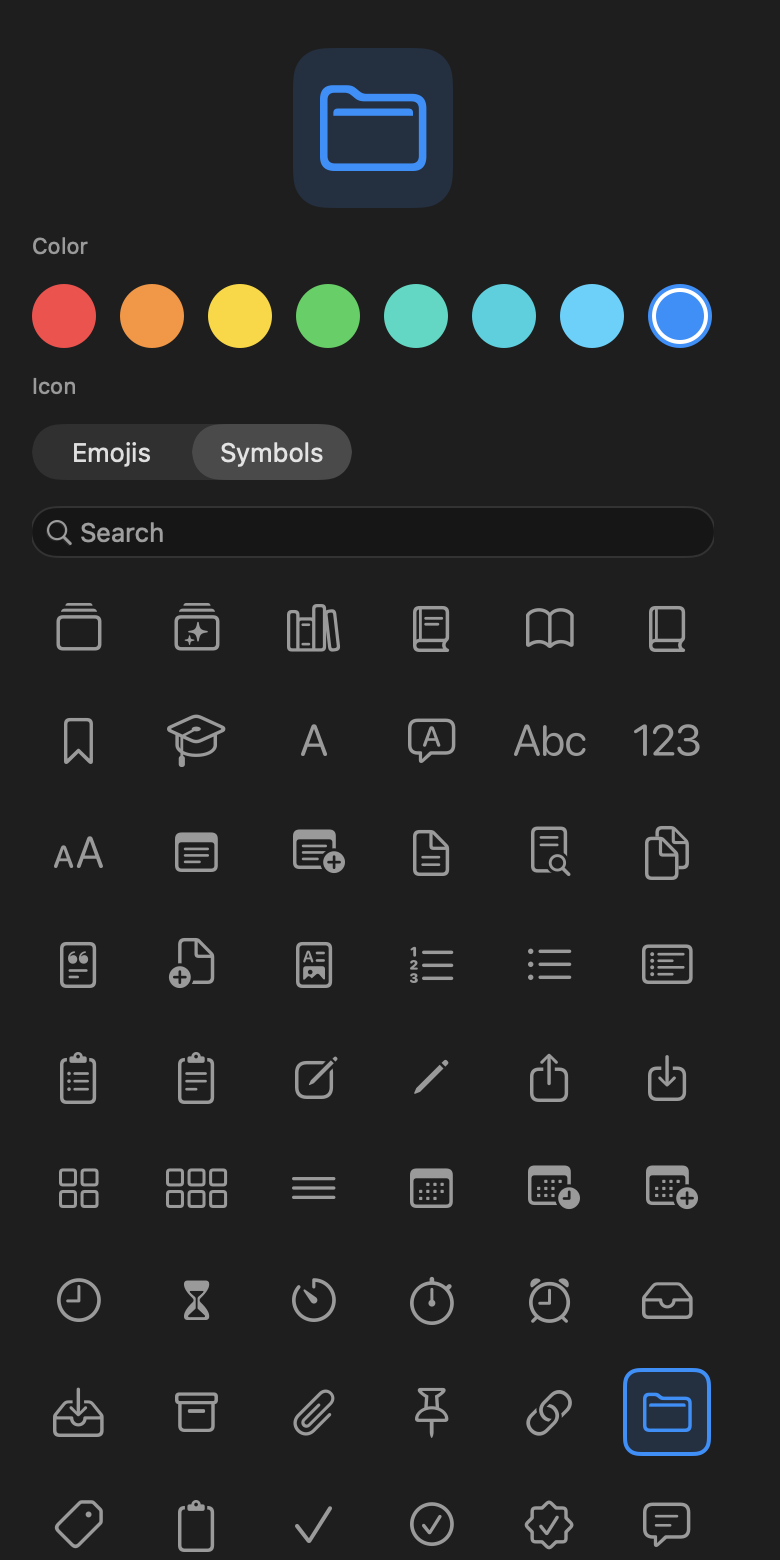
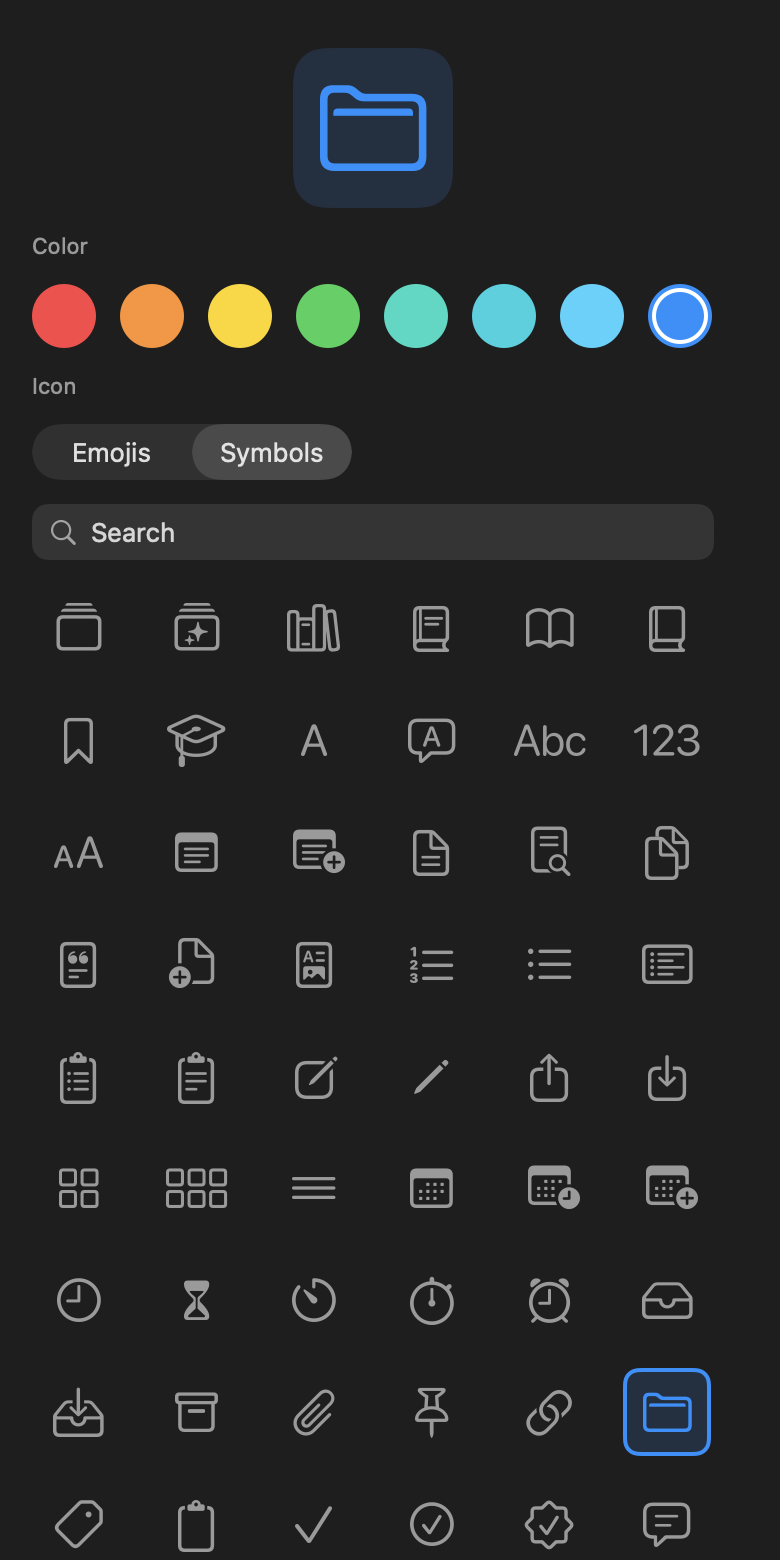
fix: match search field weight to the mode control
Drop the AppKit/UIKit search bezel. SwiftUI field with a
magnifying glass and quaternary fill sits at the same height.

Changed region(s): [[0.0308, 0.3077, 0.9231, 0.3692]]

diff --git a/Sources/IconPickerKit/IconPickerSearch.swift b/Sources/IconPickerKit/IconPickerSearch.swift
@@ -7,101 +7,37 @@ struct IconPickerSearchField: View {
     var prompt: String
 
     var body: some View {
-        PlatformSearchField(text: self.$text, prompt: self.prompt)
-            .frame(height: IconPickerLayout.searchHeight)
-            .clipped()
-            .onChange(of: self.text) { _, new in
-                self.debounce.push(new, at: ContinuousClock.now - self.origin)
-            }
-            .task(id: self.text) {
-                try? await Task.sleep(for: self.debounce.interval)
-                guard !Task.isCancelled else { return }
-                self.debounce.flush(at: ContinuousClock.now - self.origin)
-            }
-    }
-}
-
-#if os(macOS)
-import AppKit
-
-struct PlatformSearchField: NSViewRepresentable {
-    @Binding var text: String
-    var prompt: String
-
-    func makeNSView(context: Context) -> NSSearchField {
-        let field = NSSearchField()
-        field.placeholderString = self.prompt
-        field.delegate = context.coordinator
-        field.sendsSearchStringImmediately = true
-        field.sendsWholeSearchString = false
-        field.controlSize = .large
-        return field
-    }
-
-    func updateNSView(_ field: NSSearchField, context: Context) {
-        if field.stringValue != self.text {
-            field.stringValue = self.text
-        }
-        field.placeholderString = self.prompt
-        context.coordinator.text = self.$text
-    }
-
-    func makeCoordinator() -> Coordinator {
-        Coordinator(text: self.$text)
-    }
-
-    final class Coordinator: NSObject, NSSearchFieldDelegate {
-        var text: Binding<String>
-
-        init(text: Binding<String>) {
-            self.text = text
-        }
-
-        func controlTextDidChange(_ notification: Notification) {
-            let field = notification.object as? NSSearchField
-            self.text.wrappedValue = field?.stringValue ?? ""
-        }
-    }
-}
-#else
-import UIKit
-
-struct PlatformSearchField: UIViewRepresentable {
-    @Binding var text: String
-    var prompt: String
-
-    func makeUIView(context: Context) -> UISearchBar {
-        let bar = UISearchBar()
-        bar.placeholder = self.prompt
-        bar.searchBarStyle = .minimal
-        bar.autocapitalizationType = .none
-        bar.autocorrectionType = .no
-        bar.delegate = context.coordinator
-        return bar
-    }
-
-    func updateUIView(_ bar: UISearchBar, context: Context) {
-        if bar.text != self.text {
-            bar.text = self.text
-        }
-        bar.placeholder = self.prompt
-        context.coordinator.text = self.$text
-    }
-
-    func makeCoordinator() -> Coordinator {
-        Coordinator(text: self.$text)
-    }
-
-    final class Coordinator: NSObject, UISearchBarDelegate {
-        var text: Binding<String>
-
-        init(text: Binding<String>) {
-            self.text = text
-        }
-
-        func searchBar(_ searchBar: UISearchBar, textDidChange searchText: String) {
-            self.text.wrappedValue = searchText
-        }
-    }
-}
+        HStack(spacing: 6) {
+            Image(systemName: "magnifyingglass")
+                .foregroundStyle(.secondary)
+                .accessibilityHidden(true)
+            TextField(self.prompt, text: self.$text)
+                .textFieldStyle(.plain)
+                .autocorrectionDisabled()
+#if os(iOS)
+                .textInputAutocapitalization(.never)
 #endif
+            if !self.text.isEmpty {
+                Button {
+                    self.text = ""
+                } label: {
+                    Image(systemName: "xmark.circle.fill")
+                        .foregroundStyle(.secondary)
+                }
+                .buttonStyle(.plain)
+                .accessibilityLabel("Clear")
+            }
+        }
+        .padding(.horizontal, 8)
+        .frame(height: IconPickerLayout.searchHeight)
+        .background(.quaternary, in: RoundedRectangle(cornerRadius: 8, style: .continuous))
+        .onChange(of: self.text) { _, new in
+            self.debounce.push(new, at: ContinuousClock.now - self.origin)
+        }
+        .task(id: self.text) {
+            try? await Task.sleep(for: self.debounce.interval)
+            guard !Task.isCancelled else { return }
+            self.debounce.flush(at: ContinuousClock.now - self.origin)
+        }
+    }
+}

diff --git a/CHANGELOG.md b/CHANGELOG.md
@@ -10,7 +10,7 @@ All notable changes to IconPickerKit are recorded here. The format follows
 
 - README stills of `IconPickerView` and `IconPickerRow` in light and dark.
 - Platform search on both pickers, with debounce. The same query filters emojis or symbols.
-- Search is an in-catalog field (`NSSearchField` / `UISearchBar`) so it is visible without a nav bar.
+- Search is an in-catalog SwiftUI field so it is visible without a nav bar.
 - One stack gap, inset, and control height for the full picker’s label, mode control, search, and catalog.
 - Section-to-section spacing uses that same gap, so Color → Icon matches Icon → controls.
 - `SymbolCatalog.search` and `SearchDebounce`.

diff --git a/README.md b/README.md
@@ -72,7 +72,7 @@ struct EditItemView: View {
 
 `icon` is either an emoji (`"🐶"`) or an SF Symbol name (`"folder"`). Persist `icon` and `color.id`.
 
-Search is the system search field above the catalog and filters whichever list is showing (emoji names/keywords or symbol names). Keystrokes debounce for 250 ms.
+Search sits above the catalog in the same weight as the mode control and filters whichever list is showing. Keystrokes debounce for 250 ms.
 
 ### In a form
 
